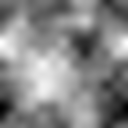
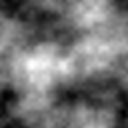
Ground: two tiles a field, mixed by a long-period map so patches do not repeat
In a recording at zoom 2 the cobble patches lined up every 256 px. The patches
now come from a map of a much longer period, with a ragged dark-rimmed border.
The snow is a little darker so pale monsters read on it.

Claude-Session: https://claude.ai/code/session_015fEAdaJScRneJQoLDJEkeN

diff --git a/tools/ground/ground.py b/tools/ground/ground.py
@@ -1,6 +1,7 @@
 #!/usr/bin/env python3
 """Seamless ground tiles for the six fields, made from seeded noise only (no model, no outside art).
-ground.py OUT_DIR  ->  ground_0.png .. ground_5.png (512 x 512, wraps on both axes) and ground_blotch.png."""
+ground.py OUT_DIR  ->  ground_0a.png, ground_0b.png .. ground_5b.png (512 x 512, each wraps on both axes) and the
+two long-period maps ground_blotch.png (shade) and ground_patch.png (which of a and b shows)."""
 import sys
 from pathlib import Path
 import numpy as np
@@ -104,33 +105,28 @@ def lit(img, h, strength, amount=38.0):
     return img + emboss(h, strength)[..., None] * amount
 
 
-def road(rng):  # THE FOOL'S ROAD: packed earth, cobbles showing through in patches, pebbles
+# Each field is two tiles: `a` its common ground and `b` the other ground that shows in patches. The shader
+# (realm/client/field/ground.gdshader) chooses between them with a map of a much longer period, so the patches
+# never repeat with the tile.
+
+
+def road(rng):  # THE FOOL'S ROAD: packed earth with pebbles; old cobbles
     base = fbm(rng, 4)
     fine = fbm(rng, 64, 2)
     earth = ramp(norm(0.6 * base + 0.4 * fine), [(0, (34, 27, 20)), (0.5, (54, 43, 31)), (1, (74, 60, 43))])
     earth = lit(earth, fine, 6.0, 14)
-    joint, shade = stones(rng, 420, 2.2)
-    cob_h = np.clip(joint * 1.4, 0, 1)
-    cob = ramp(np.clip(0.5 + 0.3 * shade + 0.4 * (fine - 0.5), 0, 1), [(0, (52, 50, 48)), (1, (96, 90, 80))])
-    cob = lit(cob * (0.45 + 0.55 * joint[..., None]), cob_h, 1.6, 26)
-    patch = np.clip((fbm(rng, 5, 3) - 0.52) * 30, 0, 1)
-    img = earth * (1 - patch[..., None]) + cob * patch[..., None]
     dome, sh = blobs(rng, 300, 1.5, 4.0, 0.5)
     peb = ramp(np.clip(0.5 + 0.4 * sh, 0, 1), [(0, (70, 64, 56)), (1, (112, 104, 92))])
-    m = (dome > 0)[..., None] * (1 - patch[..., None])
-    img = img * (1 - m) + lit(peb, dome, 2.5, 30) * m
-    return img
+    m = (dome > 0)[..., None]
+    a = earth * (1 - m) + lit(peb, dome, 2.5, 30) * m
+    joint, shade = stones(rng, 420, 2.2)
+    cob = ramp(np.clip(0.5 + 0.3 * shade + 0.4 * (fine - 0.5), 0, 1), [(0, (52, 50, 48)), (1, (96, 90, 80))])
+    b = lit(cob * (0.45 + 0.55 * joint[..., None]), np.clip(joint * 1.4, 0, 1), 1.6, 26)
+    return a, b
 
 
-def wood(rng):  # THE HANGING WOOD: fallen leaves over dark soil, moss
-    base = fbm(rng, 4)
-    fine = fbm(rng, 64, 2)
-    soil = ramp(norm(0.6 * base + 0.4 * fine), [(0, (18, 20, 14)), (1, (40, 36, 24))])
-    img = lit(soil, fine, 6.0, 10)
-    moss = np.clip((fbm(rng, 6, 4) - 0.52) * 30, 0, 1)
-    green = ramp(norm(fbm(rng, 48, 2)), [(0, (20, 40, 22)), (0.6, (34, 58, 28)), (1, (56, 80, 36))])
-    img = img * (1 - moss[..., None]) + lit(green, fine, 8.0, 16) * moss[..., None]
-    for seed, count, cols in [(1, 520, [(0, (58, 38, 16)), (1, (104, 66, 22))]), (2, 380, [(0, (70, 30, 14)), (1, (128, 84, 26))])]:
+def leaves(img, seeds):
+    for seed, count, cols in seeds:
         r2 = np.random.default_rng(7300 + seed)
         dome, sh = blobs(r2, count, 2.0, 4.2, 0.6)
         leaf = ramp(np.clip(0.5 + 0.5 * sh, 0, 1), cols)
@@ -139,67 +135,77 @@ def wood(rng):  # THE HANGING WOOD: fallen leaves over dark soil, moss
     return img
 
 
-def marsh(rng):  # THE DROWNED MARSH: mud banks, standing water, reeds
+def wood(rng):  # THE HANGING WOOD: fallen leaves over dark soil; moss
+    base = fbm(rng, 4)
+    fine = fbm(rng, 64, 2)
+    soil = ramp(norm(0.6 * base + 0.4 * fine), [(0, (18, 20, 14)), (1, (40, 36, 24))])
+    a = leaves(lit(soil, fine, 6.0, 10), [(1, 520, [(0, (58, 38, 16)), (1, (104, 66, 22))]), (2, 380, [(0, (70, 30, 14)), (1, (128, 84, 26))])])
+    green = ramp(norm(fbm(rng, 48, 2)), [(0, (20, 40, 22)), (0.6, (34, 58, 28)), (1, (56, 80, 36))])
+    b = leaves(lit(green, fine, 8.0, 16), [(3, 160, [(0, (58, 38, 16)), (1, (104, 66, 22))])])
+    return a, b
+
+
+def marsh(rng):  # THE DROWNED MARSH: mud banks with reeds; standing water
     h = fbm(rng, 5)
     fine = fbm(rng, 64, 2)
     mud = ramp(norm(0.6 * h + 0.4 * fine), [(0, (26, 34, 30)), (0.6, (44, 52, 40)), (1, (64, 66, 46))])
-    mud = lit(mud, fine, 6.0, 12)
-    level = 0.45
-    water = (h < level).astype(float)
-    depth = np.clip((level - h) * 9, 0, 1)
-    pool = ramp(depth, [(0, (26, 58, 62)), (0.4, (16, 40, 48)), (1, (8, 22, 30))])
-    shore = ((h >= level) & (h < level + 0.012)).astype(float)
-    img = mud * (1 - water[..., None]) + pool * water[..., None]
-    img = img * (1 - 0.45 * shore[..., None])
-    dome, sh = blobs(rng, 420, 1.2, 2.6, 0.5)
-    reed = (dome > 0) & (h > level + 0.01) & (h < level + 0.09)
-    img = np.where(reed[..., None], lit(ramp(np.clip(0.5 + 0.5 * sh, 0, 1), [(0, (40, 62, 30)), (1, (86, 104, 44))]), dome, 2.0, 22), img)
-    glint = (rng.random((N, N)) < 0.004) & (h < level - 0.03)
-    img = np.where(glint[..., None], img + 34, img)
-    return img
+    a = lit(mud, fine, 6.0, 12)
+    dome, sh = blobs(rng, 420, 1.2, 2.6, 0.22)
+    reed = (dome > 0)[..., None]
+    a = np.where(reed, lit(ramp(np.clip(0.5 + 0.5 * sh, 0, 1), [(0, (40, 62, 30)), (1, (86, 104, 44))]), dome, 2.0, 22), a)
+    depth = norm(fbm(rng, 4, 4))
+    b = ramp(depth, [(0, (8, 22, 30)), (0.6, (16, 40, 48)), (1, (24, 54, 58))])
+    glint = (rng.random((N, N)) < 0.004)[..., None]
+    b = np.where(glint, b + 34, b)
+    return a, b
 
 
-def peaks(rng):  # THE PALE PEAKS: snow drifts with bare rock breaking through
+def peaks(rng):  # THE PALE PEAKS: snow drifts; bare rock
     h = fbm(rng, 4)
     fine = fbm(rng, 64, 2)
     drift = fbm(rng, 12, 3)
-    snow = ramp(norm(0.6 * h + 0.4 * drift), [(0, (92, 106, 126)), (0.6, (126, 140, 160)), (1, (158, 170, 186))])
-    snow = lit(snow, drift, 5.0, 18)
+    snow = ramp(norm(0.6 * h + 0.4 * drift), [(0, (74, 88, 108)), (0.6, (106, 120, 140)), (1, (136, 148, 166))])
+    a = lit(snow, drift, 5.0, 16)
     joint, shade = stones(rng, 150, 2.5)
     rock = ramp(np.clip(0.5 + 0.3 * shade + 0.5 * (fine - 0.5), 0, 1), [(0, (36, 40, 50)), (1, (78, 84, 96))])
-    rock = lit(rock * (0.4 + 0.6 * joint[..., None]), np.clip(joint * 1.4, 0, 1), 1.6, 24)
-    bare = (h < 0.43).astype(float)
-    edge_ = ((h >= 0.43) & (h < 0.445)).astype(float)
-    img = snow * (1 - bare[..., None]) + rock * bare[..., None]
-    img = img + edge_[..., None] * 22
-    return img
+    b = lit(rock * (0.4 + 0.6 * joint[..., None]), np.clip(joint * 1.4, 0, 1), 1.6, 24)
+    return a, b
 
 
-def tower(rng):  # THE TOWER: worn flagstones, some cracked
-    joint, shade = stones(rng, 60, 3.0)
+def flags(rng, count, cols, crack_seed):
+    joint, shade = stones(rng, count, 3.0)
     fine = fbm(rng, 64, 2)
     v = 0.5 + 0.25 * shade + 0.5 * (fine - 0.5)
-    img = ramp(np.clip(v, 0, 1), [(0, (36, 30, 46)), (0.5, (58, 48, 68)), (1, (84, 72, 94))])
+    img = ramp(np.clip(v, 0, 1), cols)
     img = lit(img * (0.3 + 0.7 * joint[..., None]), np.clip(joint * 1.3, 0, 1), 1.4, 30)
-    f1, f2, _ = cells_map(rng, 26)
-    crack = (np.clip(1 - (f2 - f1) / 1.2, 0, 1) * np.clip((fbm(rng, 4) - 0.5) * 8, 0, 1))
-    img = img * (1 - 0.6 * crack[..., None])
-    return lit(img, fine, 5.0, 8)
+    f1, f2, _ = cells_map(rng, crack_seed)
+    crack = np.clip(1 - (f2 - f1) / 1.2, 0, 1) * np.clip((fbm(rng, 4) - 0.5) * 8, 0, 1)
+    return lit(img * (1 - 0.6 * crack[..., None]), fine, 5.0, 8)
 
 
-def edge(rng):  # THE EDGE: cracked ash plates, embers in the cracks
-    f1, f2, ident = cells_map(rng, 90)
-    gap = (f2 - f1)
+def tower(rng):  # THE TOWER: worn flagstones; smaller, darker broken paving
+    a = flags(rng, 60, [(0, (36, 30, 46)), (0.5, (58, 48, 68)), (1, (84, 72, 94))], 26)
+    b = flags(rng, 190, [(0, (26, 22, 34)), (0.5, (42, 36, 52)), (1, (62, 54, 72))], 40)
+    return a, b
+
+
+def plates(rng, count, heat):
+    f1, f2, ident = cells_map(rng, count)
+    gap = f2 - f1
     crack = np.clip(1 - gap / 2.4, 0, 1)
     fine = fbm(rng, 64, 2)
-    shade = rng.uniform(-1, 1, 90)[ident]
+    shade = rng.uniform(-1, 1, count)[ident]
     ash = ramp(np.clip(0.5 + 0.25 * shade + 0.5 * (fine - 0.5), 0, 1), [(0, (34, 22, 22)), (0.6, (60, 38, 32)), (1, (84, 54, 44))])
     ash = lit(ash, np.clip(gap / 6.0, 0, 1), 1.6, 26)
-    hot = np.clip((fbm(rng, 3) - 0.48) * 10, 0, 1)
     img = ash * (1 - 0.8 * crack[..., None])
-    img += (crack * hot)[..., None] * np.array([190.0, 70.0, 16.0])
-    img += (np.clip(1 - gap / 7.0, 0, 1) * hot * 0.25)[..., None] * np.array([120.0, 30.0, 6.0])
+    if heat > 0:
+        img += (crack * heat)[..., None] * np.array([190.0, 70.0, 16.0])
+        img += (np.clip(1 - gap / 7.0, 0, 1) * heat * 0.25)[..., None] * np.array([120.0, 30.0, 6.0])
     return img
+
+
+def edge(rng):  # THE EDGE: cracked ash plates; plates with embers in the cracks
+    return plates(rng, 90, 0.0), plates(rng, 90, 1.0)
 
 
 def save(img, path, colours=40):
@@ -212,9 +218,13 @@ def main():
     out = Path(sys.argv[1])
     out.mkdir(parents=True, exist_ok=True)
     for k, f in enumerate([road, wood, marsh, peaks, tower, edge]):
-        save(f(np.random.default_rng(7100 + k)), out / ("ground_%d.png" % k))
-    b = fbm(np.random.default_rng(7199), 3, 3)
-    Image.fromarray((norm(b) * 255).astype(np.uint8), "L").resize((128, 128), Image.BILINEAR).save(out / "ground_blotch.png", optimize=True)
+        a, b = f(np.random.default_rng(7100 + k))
+        save(a, out / ("ground_%da.png" % k))
+        save(b, out / ("ground_%db.png" % k))
+    rng = np.random.default_rng(7199)
+    for name in ["ground_blotch.png", "ground_patch.png"]:
+        m = fbm(rng, 4, 4)
+        Image.fromarray((norm(m) * 255).astype(np.uint8), "L").resize((128, 128), Image.BILINEAR).save(out / name, optimize=True)
 
 
 if __name__ == "__main__":

diff --git a/docs/realm/client.md b/docs/realm/client.md
@@ -106,13 +106,15 @@ constants. `FieldHud` already draws a boss bar from `world["boss"]` and the alta
 
 ## Proof and numbers
 
-The ground (`field/field_ground.gd`, `field/ground.gdshader`): each field has a seamless 512 px tile in
-`realm/client/ground/` (road earth and cobbles, leaf litter and moss, mud and standing water, snow over rock,
-flagstones, cracked ash with embers), two texture px to a field px, repeated over the whole field and shaded by a
-soft blotch map with a period of 1777 px so no repeat shows; zoomed out past one screen px per field px it fades
-toward the tile's mean colour so it does not shimmer. The tiles are made by `tools/ground/ground.py OUT_DIR`
-from seeded noise alone (numpy and Pillow; no model and no outside art, so nothing to license): the same seeds
-give the same files. The field number comes from `RealmLink.world().field`.
+The ground (`field/field_ground.gd`, `field/ground.gdshader`): each field has two seamless 512 px tiles in
+`realm/client/ground/`, two texture px to a field px: `a` its common ground and `b` the ground that shows in
+patches (road: earth with pebbles, cobbles; wood: leaf litter, moss; marsh: mud with reeds, standing water; peaks:
+snow, bare rock; tower: flagstones, broken paving; edge: ash plates, plates with embers in the cracks). The
+shader repeats both and picks between them with a soft map sampled at periods of 1291 and 433 px, shades all of it
+with another of 1777 px, so no repeat shows, and gives the patches a ragged, dark-rimmed border; zoomed out
+past one screen px per field px the tiles fade toward their mean colours so they do not shimmer. The pictures are
+made by `tools/ground/ground.py OUT_DIR` from seeded noise alone (numpy and Pillow; no model and no outside art,
+so nothing to license): the same seeds give the same files. The field number comes from `RealmLink.world().field`.
 
 `realm/check_client.sh` prints `REALM_CLIENT ok field_test_checks=112 shots: zoom 1/2/4 ... | server 300x8000
 direct: hashes passed=20 failed=0 ... | relay 5% loss 80+-20 ms: hashes passed=20 failed=0 ...`. Screenshots at zoom
